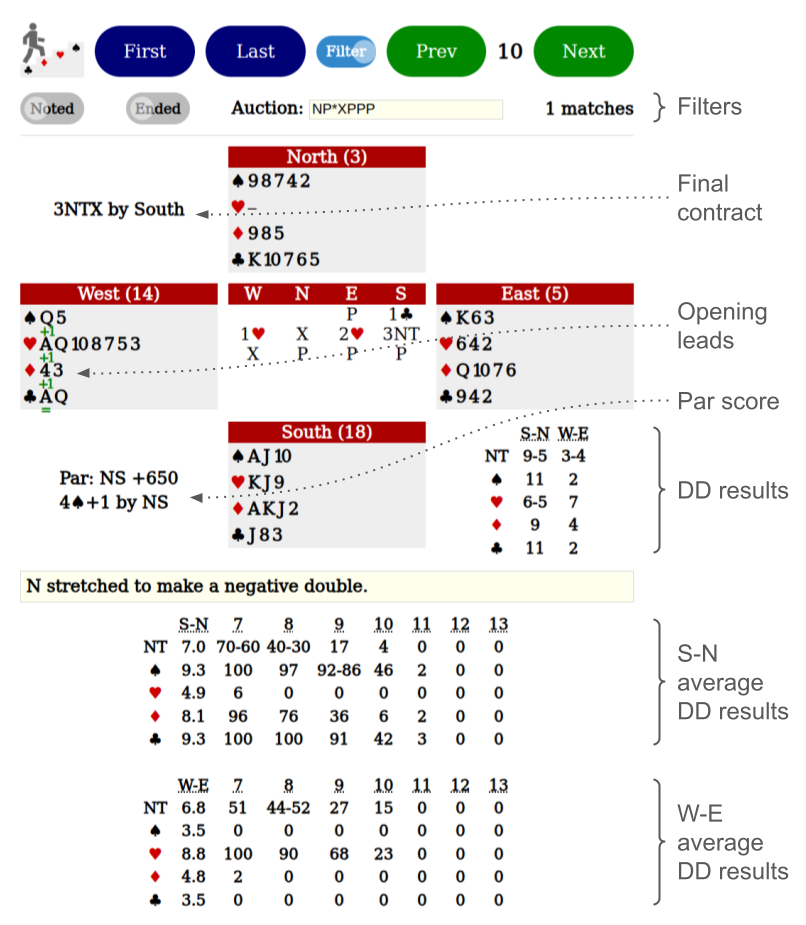
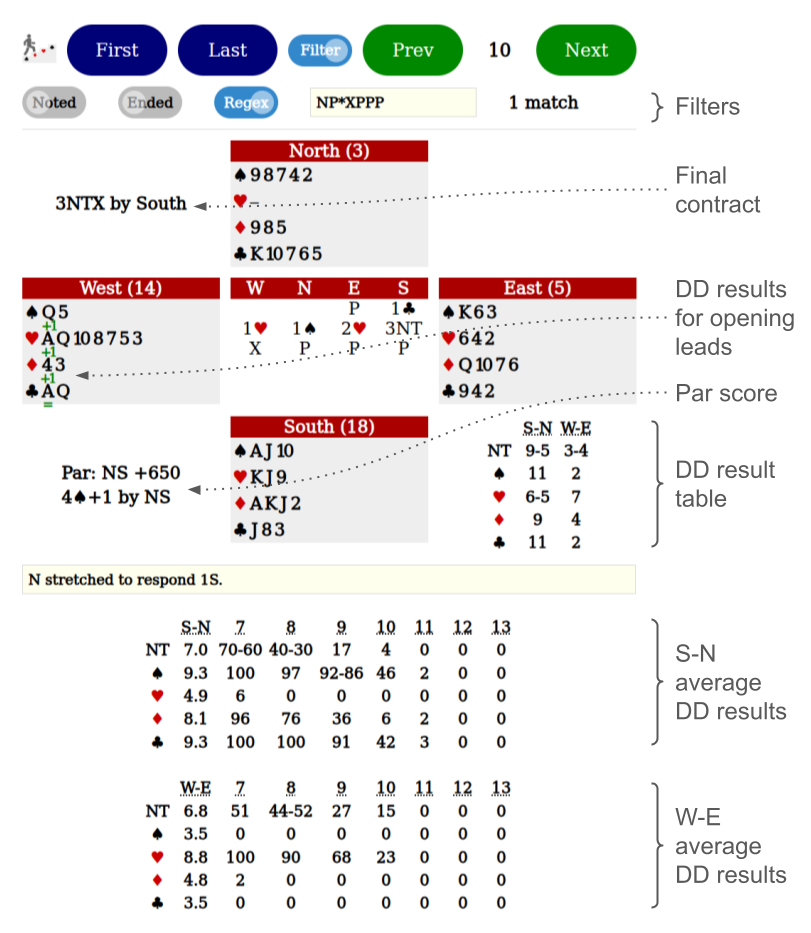
Make regular expression a toggle

diff --git a/practice.js b/practice.js
@@ -10,6 +10,7 @@ const filterChk = document.getElementById('filter');
 const filterBar = document.getElementById('filter-bar');
 const notedChk = document.getElementById('noted');
 const endedChk = document.getElementById('ended');
+const regexChk = document.getElementById('regex');
 const matchEl = document.getElementById('match');
 const matchCountEl = document.getElementById('match-count');
 
@@ -95,38 +96,31 @@ function initialize() {
   filterChk.checked = false;
   notedChk.checked = false;
   endedChk.checked = false;
+  regexChk.checked = true;
   filterChk.addEventListener('change', toggleFilterBar);
   notedChk.addEventListener('change', countMatches);
   endedChk.addEventListener('change', countMatches);
+  regexChk.addEventListener('change', () => {
+    matchEl.disabled = !regexChk.checked;
+    countMatches();
+  });
   matchEl.addEventListener('change', countMatches);
 
   firstBtn.addEventListener('click', firstBoard);
   lastBtn.addEventListener('click', lastBoard);
   prevBtn.addEventListener('click', prevBoard);
   nextBtn.addEventListener('click', nextBoard);
-  boardNumEl.addEventListener('keydown', function(event) {
-    if (event.key === 'Enter') {
-      event.preventDefault();
-      boardNumEl.blur();
-    }
-  });
-  boardNumEl.addEventListener('blur', () => {
-    const num = Number(boardNumEl.innerHTML);
+  boardNumEl.addEventListener('change', () => {
+    const num = Number(boardNumEl.value);
     if (1 <= num && num <= boards.length) {
       currentBoard = num - 1;
       showBoard();
     } else {
-      boardNumEl.innerHTML = currentBoard + 1;
+      boardNumEl.value = currentBoard + 1;
     }
   });
-  noteEl.addEventListener('keydown', function(event) {
-    if (event.key === 'Enter') {
-      event.preventDefault();
-      noteEl.blur();
-    }
-  });
-  noteEl.addEventListener('blur', () => {
-    boards[currentBoard].note = noteEl.innerHTML;
+  noteEl.addEventListener('change', () => {
+    boards[currentBoard].note = noteEl.value;
     boards[currentBoard].save();
   });
 
@@ -193,21 +187,22 @@ function nextBoard() {
 
 function isFilterOn() {
   return filterChk.checked &&
-    (notedChk.checked || endedChk.checked || matchEl.value.length > 0);
+    (notedChk.checked || endedChk.checked ||
+      (regexChk.checked && matchEl.value.length > 0));
 }
 
 function isBoardInScope(board) {
   if (!filterChk.checked) return true;
-  return (!notedChk.checked || board.note !== '') &&
+  return (!notedChk.checked || board.note.trim() !== '') &&
     (!endedChk.checked || board.isAuctionOver()) &&
-    (matchEl.value.length == 0 ||
+    (!regexChk.checked || matchEl.value.length == 0 ||
       board.getAuctionStr().match(matchEl.value.toUpperCase()));
 }
 
 function countMatches() {
   if (!filterChk.checked) return;
   const count = boards.filter(board => isBoardInScope(board)).length;
-  matchCountEl.innerHTML = count + ' matches';
+  matchCountEl.innerHTML = count + (count == 1 ? ' match' : ' matches');
 }
 
 function backwardSearchBoard(start) {
@@ -238,14 +233,14 @@ function showBoard() {
   nextBtn.disabled = board.num == MAX_BOARDS - 1;
 
   // Info
-  boardNumEl.innerHTML = board.num + 1;
+  boardNumEl.value = board.num + 1;
 
   // Hands
   tableEl.style.minHeight = pairPractice ? '144px' : '288px';
   for (seat of BIDDER_SEATS) {
     renderHand(seat);
   }
-  noteEl.innerHTML = board.note;
+  noteEl.value = board.note;
   contractEl.innerHTML = '';
   parScoreEl.innerHTML = '';
   ddResultsEl.innerHTML = '';

diff --git a/practice.html b/practice.html
@@ -15,25 +15,37 @@
         </a>
         <button id='first' class='nav-btn blue-btn'>First</button>
         <button id='last' class='nav-btn blue-btn'>Last</button>
-        <label class='toggle'>
-          <input id='filter' type="checkbox">
-          <span class='slider'>Filter</span>
-        </label>
+        <div>
+          <label class='toggle'>
+            <input id='filter' type="checkbox">
+            <span class='slider'>Filter</span>
+          </label>
+        </div>
         <button id='prev' class='nav-btn green-btn'>Prev</button>
-        <div id='board-num' contenteditable='true'></div>
+        <input id='board-num' type='text'>
         <button id='next' class='nav-btn green-btn'>Next</button>
       </div>
 
       <div id='filter-bar'>
-        <label class='toggle'>
-          <input id='noted' type="checkbox">
-          <span class='slider'>Noted</span>
-        </label>
-        <label class='toggle'>
-          <input id='ended' type="checkbox">
-          <span class='slider'>Ended</span>
-        </label>
-        <label>Auction: <input id='match' type='text'></label>
+        <div>
+          <label class='toggle'>
+            <input id='noted' type="checkbox">
+            <span class='slider'>Noted</span>
+          </label>
+        </div>
+        <div>
+          <label class='toggle'>
+            <input id='ended' type="checkbox">
+            <span class='slider'>Ended</span>
+          </label>
+        </div>
+        <div>
+          <label class='toggle'>
+            <input id='regex' type='checkbox'>
+            <span class='slider'>Regex</span>
+          </label>
+        </div>
+        <input id='match' type='text'>
         <div id='match-count'></div>
       </div>
 
@@ -63,7 +75,7 @@
         <div id='dd-results'></div>
 
       </div>
-      <div id='note' contenteditable='true'></div>
+      <input id='note' type='text'>
 
       <!-- Bidding Controls -->
       <div id='bidding-grid'>

diff --git a/practice.css b/practice.css
@@ -9,7 +9,10 @@ body {
   font-weight: bold;
   justify-content: center;
 }
-
+input {
+  font-family: DejaVu;
+  font-weight: bold;
+}
 
 /* Hide scrollbar but allow scrolling */
 body::-webkit-scrollbar {
@@ -45,8 +48,15 @@ table { white-space: nowrap; }
   background-color: #ffe;
   padding: 5px;
 }
+#match:disabled { background-color: #bbb; }
+#match-count { width: 120px; }
 #logo { width: min(32px, 10vw); }
-#board-num { font-size: 120%; }
+#board-num {
+  border: 0px;
+  font-size: 105%;
+  text-align: center;
+  width: 45px;
+}
 #table {
   border-top: solid lightgrey 1px;
   display: grid;
@@ -86,6 +96,7 @@ table { white-space: nowrap; }
   margin-bottom: 10px;
   margin-top: 10px;
   padding: 5px;
+  width: calc(100% - 12px);
 }
 #bidding-grid {
   display: grid;

diff --git a/README.md b/README.md
@@ -20,8 +20,8 @@ One player bids all four hands, practicing and tuning any systems.
 When the auction of a board ends, all four hands are displayed with detailed analysis
 to help the player evaluate the auction. The analysis assumes perfect bidding and
 card play.
-* Par score and par contract(s) assuming perfect bidding by all seats.
-* Double-dummy (DD) results assuming perfect card play by all seats.
+* Par score and par contract(s) assume perfect bidding by all seats.
+* Double-dummy (DD) results assume perfect card play by all seats.
 
 Three kinds of DD analysis are performed.
 * For opening leads of this contract, shown as green numbers under the leading
@@ -33,27 +33,24 @@ Three kinds of DD analysis are performed.
   the declarer of an NT contract takes 9 tricks but North can take only 5 tricks;
   either South or North take 11 tricks when declaring a spade contract.
   Therefore, the best strain to play in is spade rather than NT.
-* Average results when defenders' cards are randomized, shown at the bottom of
+* For average results when defenders' cards are shuffled, shown at the bottom of
   the page. Since it's very expensive to compute such results, they're
   precomputed and retrieved from this
   [double-dummy dataset](https://github.com/macroxue/double-dummy).
   For example, either South or North can take 10 tricks with spade trumps 46%
   of the time, while 3NT can make only 17% of the time. This result, although
   without considering the actual auction, still shows spade is a better
-  strain than NT. From the numbers one can also see that it's better for South
-  to declare than North.
+  strain than NT. From the numbers, one can also see that it's better for South
+  to declare than North. This board is above average for South and North, e.g.
+  they take 9.3 tricks on average with spade trumps but 11 tricks with this board.
 
 ## Filtering
 
 When filtering is toggled on, filters below are applied to the boards.
 * Noted: auctions with a manually entered note.
 * Ended: auctions that have ended.
-* Auction: auctions that match a regular expression.
-
-Auctions and boards can be filtered by patterns using JavaScript's regular
-expressions. Refer to
-[JAVASCRIPT.INFO](https://javascript.info/regular-expressions)
-for technical details.
+* Regex: auctions that match a
+  [regular expression](https://javascript.info/regular-expressions).
 
 The vocabulary of auctions is limited to 38 calls.
 * 35 bids: "[1-7][NSHDC]"
